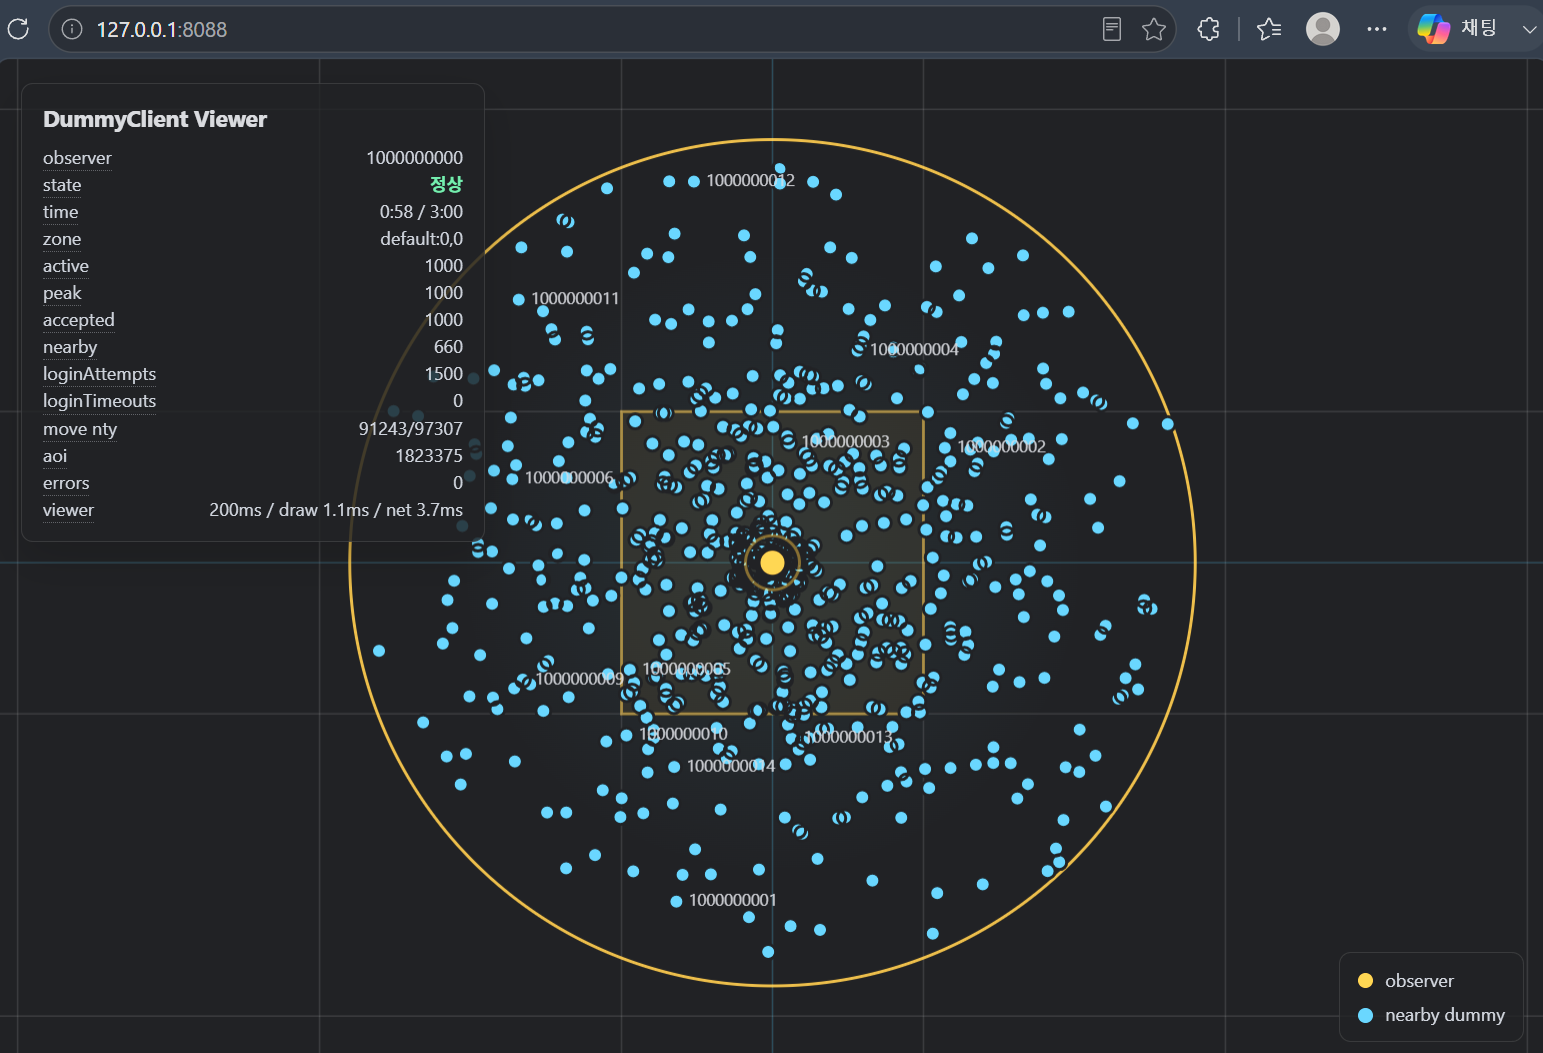
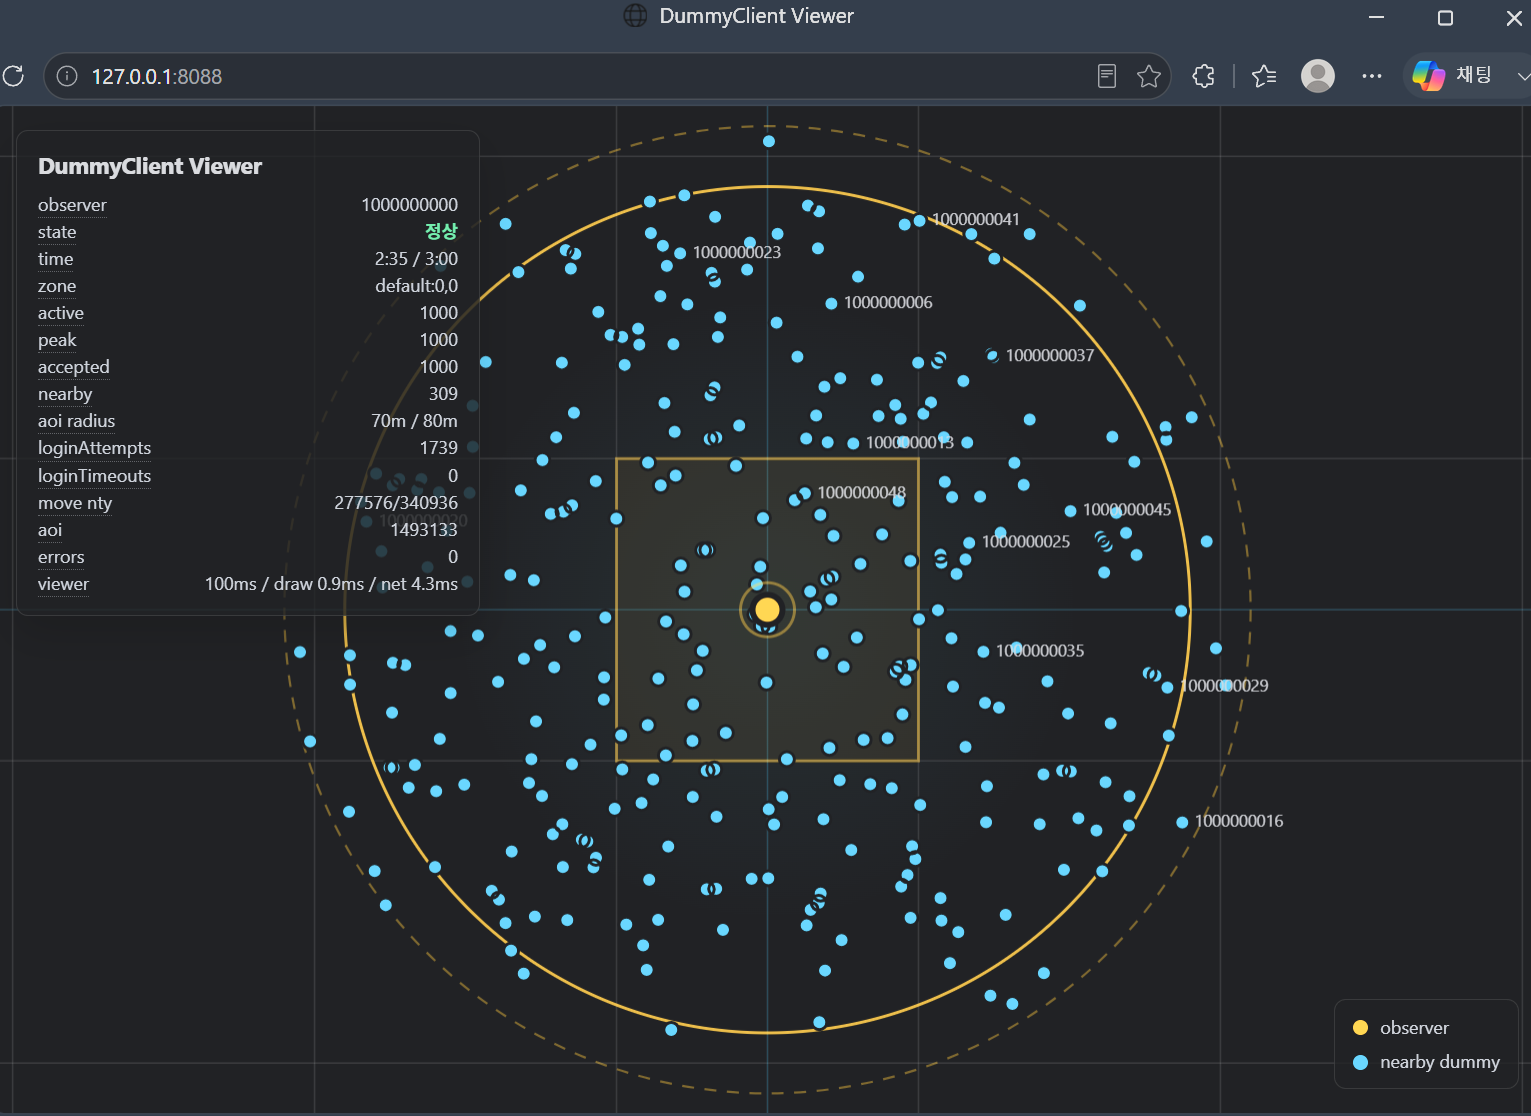
최적화를 위한 옵션 수치 조정

diff --git a/GameServer/Shared/Protocol/ProtobufPacketCodec.cs b/GameServer/Shared/Protocol/ProtobufPacketCodec.cs
@@ -1,3 +1,4 @@
+using System.Buffers;
 using System.Buffers.Binary;
 using Google.Protobuf;
 
@@ -10,18 +11,37 @@ public static class ProtobufPacketCodec
 
     public static async ValueTask WriteAsync(Stream stream, IMessage message, CancellationToken cancellationToken)
     {
-        var payload = message.ToByteArray();
+        var payloadLength = message.CalculateSize();
 
-        if (payload.Length > MaxPacketSize)
+        if (payloadLength > MaxPacketSize)
         {
             throw new InvalidOperationException($"Packet is larger than {MaxPacketSize} bytes.");
         }
 
-        Span<byte> header = stackalloc byte[HeaderSize];
-        BinaryPrimitives.WriteInt32BigEndian(header, payload.Length);
-        await stream.WriteAsync(header.ToArray(), cancellationToken);
-        await stream.WriteAsync(payload, cancellationToken);
-        await stream.FlushAsync(cancellationToken);
+        // 매번 byte[]를 만들지 않고 pool에서 빌려 GC 압박을 줄일 수 있음.
+        var header = ArrayPool<byte>.Shared.Rent(HeaderSize);
+        var payload = ArrayPool<byte>.Shared.Rent(payloadLength);
+        try
+        {
+            BinaryPrimitives.WriteInt32BigEndian(header.AsSpan(0, HeaderSize), payloadLength);
+
+            var output = new CodedOutputStream(payload);
+            message.WriteTo(output);
+            // ArrayPool은 요청보다 큰 배열을 줄 수 있으므로 실제 직렬화 길이만 검증
+            if (output.Position != payloadLength)
+            {
+                throw new InvalidOperationException(
+                    $"Packet serialization size mismatch. Expected {payloadLength}, wrote {output.Position}.");
+            }
+
+            await stream.WriteAsync(header.AsMemory(0, HeaderSize), cancellationToken);
+            await stream.WriteAsync(payload.AsMemory(0, payloadLength), cancellationToken);
+        }
+        finally
+        {
+            ArrayPool<byte>.Shared.Return(payload);
+            ArrayPool<byte>.Shared.Return(header);
+        }
     }
 
     public static async ValueTask<T?> ReadAsync<T>(
@@ -30,35 +50,50 @@ public static class ProtobufPacketCodec
         CancellationToken cancellationToken)
         where T : class, IMessage<T>
     {
-        var header = new byte[HeaderSize];
-        var headerRead = await ReadExactOrEndAsync(stream, header, cancellationToken);
-        if (!headerRead)
+        // 수신도 header/payload 배열을 재사용해서 대량 패킷 처리 시 할당을 줄임
+        var header = ArrayPool<byte>.Shared.Rent(HeaderSize);
+        try
         {
-            return default;
-        }
+            var headerRead = await ReadExactOrEndAsync(stream, header.AsMemory(0, HeaderSize), cancellationToken);
+            if (!headerRead)
+            {
+                return default;
+            }
 
-        var length = BinaryPrimitives.ReadInt32BigEndian(header);
-        if (length <= 0 || length > MaxPacketSize)
+            var length = BinaryPrimitives.ReadInt32BigEndian(header.AsSpan(0, HeaderSize));
+            if (length <= 0 || length > MaxPacketSize)
+            {
+                throw new InvalidDataException($"Invalid packet length: {length}.");
+            }
+
+            var payload = ArrayPool<byte>.Shared.Rent(length);
+            try
+            {
+                var payloadRead = await ReadExactOrEndAsync(stream, payload.AsMemory(0, length), cancellationToken);
+                if (!payloadRead)
+                {
+                    return default;
+                }
+
+                return parser.ParseFrom(payload, 0, length);
+            }
+            finally
+            {
+                ArrayPool<byte>.Shared.Return(payload);
+            }
+        }
+        finally
         {
-            throw new InvalidDataException($"Invalid packet length: {length}.");
+            ArrayPool<byte>.Shared.Return(header);
         }
-
-        var payload = new byte[length];
-        var payloadRead = await ReadExactOrEndAsync(stream, payload, cancellationToken);
-        if (!payloadRead)
-        {
-            return default;
-        }
-
-        return parser.ParseFrom(payload);
     }
 
-    private static async ValueTask<bool> ReadExactOrEndAsync(Stream stream, byte[] buffer, CancellationToken cancellationToken)
+    private static async ValueTask<bool> ReadExactOrEndAsync(Stream stream, Memory<byte> buffer, CancellationToken cancellationToken)
     {
         var offset = 0;
         while (offset < buffer.Length)
         {
-            var read = await stream.ReadAsync(buffer.AsMemory(offset, buffer.Length - offset), cancellationToken);
+            var read = await stream.ReadAsync(buffer[offset..], cancellationToken);
             if (read == 0)
             {
                 return false;

diff --git a/GameServer/DummyClient/DummyClientRunner.cs b/GameServer/DummyClient/DummyClientRunner.cs
@@ -114,6 +114,21 @@ internal static class DummyClientRunner
             var directionX = 0f;
             var directionY = 0f;
             var moveStopwatch = Stopwatch.StartNew();
+            var movePosition = new WorldPosition
+            {
+                MapId = options.MapId,
+                X = position.X,
+                Y = position.Y,
+                Z = position.Z
+            };
+            var moveEnvelope = new ClientReqEnvelope
+            {
+                Kind = ClientReqKind.Move,
+                Move = new MoveReq
+                {
+                    Position = movePosition
+                }
+            };
 
             while (!cancellationToken.IsCancellationRequested)
             {
@@ -138,23 +153,13 @@ internal static class DummyClientRunner
                 moveStopwatch.Restart();
                 var distance = MoveSpeedMetersPerSecond * elapsedSeconds;
 
-                position = new WorldPosition
-                {
-                    MapId = options.MapId,
-                    X = position.X + directionX * distance,
-                    Y = position.Y + directionY * distance,
-                    Z = 0
-                };
+                // DummyClient는 송신 완료 후 다음 tick에서만 갱신하므로 protobuf 객체를 재사용해도 안전함
+                movePosition.X += directionX * distance;
+                movePosition.Y += directionY * distance;
+                movePosition.Z = 0;
+                moveEnvelope.Sequence = sequence++;
 
-                await ProtobufPacketCodec.WriteAsync(stream, new ClientReqEnvelope
-                {
-                    Sequence = sequence++,
-                    Kind = ClientReqKind.Move,
-                    Move = new MoveReq
-                    {
-                        Position = position
-                    }
-                }, cancellationToken);
+                await ProtobufPacketCodec.WriteAsync(stream, moveEnvelope, cancellationToken);
 
                 stats.IncrementSentMoves();
             }

diff --git a/GameServer/GatewayServer/Networking/GatewayAoiAggregator.cs b/GameServer/GatewayServer/Networking/GatewayAoiAggregator.cs
@@ -27,13 +27,13 @@ public sealed class GatewayAoiAggregator : BackgroundService
             .ToArray();
     }
 
-    public Task EnqueueLatestZoneAsync(
+    internal Task EnqueueLatestZoneAsync(
         ServerResEnvelope envelope,
         IReadOnlyList<GatewaySession> sessions,
         CancellationToken cancellationToken = default)
         => EnqueueZoneBatchAsync(SessionAoiCommandKind.LatestBatch, envelope, sessions, cancellationToken);
 
-    public Task EnqueueReliableZoneAsync(
+    internal Task EnqueueReliableZoneAsync(
         ServerResEnvelope envelope,
         IReadOnlyList<GatewaySession> sessions,
         CancellationToken cancellationToken = default)
@@ -76,7 +76,13 @@ public sealed class GatewayAoiAggregator : BackgroundService
                 continue;
             }
 
-            var command = new SessionAoiCommand(kind, envelope, partitionSessions.ToArray(), "", null);
+            var command = new SessionAoiCommand(
+                kind,
+                envelope,
+                partitionSessions.ToArray(),
+                "",
+                null);
+
             await _partitions[i].EnqueueAsync(command, cancellationToken);
         }
     }
@@ -89,6 +95,7 @@ public sealed class GatewayAoiAggregator : BackgroundService
         private readonly GatewayTcpTraceLog _traceLog;
         private readonly GatewayOptions _options;
         private readonly ILogger _logger;
+        // 현재 가장 큰 AOI 병목 지점. Latest/Reliable/Flush 명령이 여기서 세션별 필터링 작업으로 fan-out됨.
         private readonly Channel<SessionAoiCommand> _commands;
         // 관찰자 세션별로 1 tick 1 AOI packet이 되도록 최신 delta를 병합한다.
         private readonly Dictionary<string, PendingAoiDelta> _pendingBySession = new(StringComparer.Ordinal);
@@ -807,6 +814,7 @@ public sealed class GatewayAoiAggregator : BackgroundService
                 Sequence = _sequence
             };
             delta.Upserts.AddRange(_upserts.Values.Select(x => x.Clone()));
+
             foreach (var remove in _removes)
             {
                 delta.Removes.Add(remove.Key);

diff --git a/GameServer/GatewayServer/Networking/GatewaySubscriptionManager.cs b/GameServer/GatewayServer/Networking/GatewaySubscriptionManager.cs
@@ -279,7 +279,10 @@ public sealed class GatewaySubscriptionManager : BackgroundService
                 AoiDelta = delta.ToPacketAoiDelta()
             };
 
-            await _aoiAggregator.EnqueueReliableZoneAsync(envelope, [session], cancellationToken);
+            await _aoiAggregator.EnqueueReliableZoneAsync(
+                envelope,
+                [session],
+                cancellationToken);
         }
         catch (OperationCanceledException) when (cancellationToken.IsCancellationRequested)
         {

diff --git a/GameServer/GatewayServer/Networking/GatewayZoneEventRouter.cs b/GameServer/GatewayServer/Networking/GatewayZoneEventRouter.cs
@@ -382,6 +382,7 @@ public sealed class GatewayZoneEventRouter : BackgroundService
                 Sequence = _sequence
             };
             delta.Upserts.AddRange(_upserts.Values.Select(x => x.Clone()));
+
             foreach (var remove in _removes)
             {
                 delta.Removes.Add(remove.Key);

diff --git a/README.md b/README.md
@@ -98,6 +98,11 @@ Gateway 내부의 user/zone 구독 ref count와 `zone -> session` 인덱스는 s
 
 Zone 이벤트는 `ServerDeliveryPolicy`에 따라 처리 경로가 나뉩니다. `Reliable` 이벤트는 누락 없이 전달하고, `LatestPerEntity` 이벤트는 Gateway의 Zone hash partition에서 최신값으로 병합한 뒤 session hash partition에서 관찰자와 객체 기준으로 다시 병합해 tick 단위로 전송합니다.
 
+현재 남아있는 가장 강한 병목은 `GatewayAoiAggregator`의 session AOI command queue입니다.
+
+이 단계에서 Zone AOI가 관찰자 세션별 필터링 작업으로 fan-out되기 때문에, 좁은 지역에 많은 유저가 몰리면 queue 지연이 가장 먼저 커집니다. 현재 로컬 기본값은 `SessionAoiPartitionCount=16`으로 두어 병렬성을 확보하지만, 
+후술할 1000명 테스트에서 단일 PC를 사용할 경우 순간적으로 큰 지연이 발생합니다. 따라서 프로덕션까지 가기 위해서 개선해야할 부분입니다.
+
 <br>
 
 ## 주요 설정 옵션
@@ -113,11 +118,11 @@ Zone 이벤트는 `ServerDeliveryPolicy`에 따라 처리 경로가 나뉩니다
 | `GatewayHeartbeatTTLSec` | 3 | 죽은 Gateway 판정 TTL |
 | `EventQueueCapacity` | 4096 | Redis EventBus 수신 큐 용량 |
 | `EventQueueWorkerCount` | 4 | Gateway 이벤트 큐 worker 수 |
-| `LatestEventTickMs` | 200 | latest-only 이벤트 병합 및 전송 기준 tick |
+| `LatestEventTickMs` | 100 | latest-only 이벤트 병합 및 전송 기준 tick |
 | `LatestEventQueueCapacity` | 4096 | Gateway가 보관할 latest-only Zone 버퍼 최대 수 |
 | `LatestEventPartitionCount` | 4 | latest-only Zone 이벤트 hash partition 수 |
 | `LatestEventProcessingBudgetMs` | 100 | Gateway 전체 latest-only Zone tick 처리 시간 예산. Zone partition 수로 나눠 적용 |
-| `SessionAoiPartitionCount` | 4 | 세션별 AOI 병합/전송 hash partition 수 |
+| `SessionAoiPartitionCount` | 16 | 세션별 AOI 병합/전송 hash partition 수 |
 | `SessionAoiTickMs` | 100 | 세션별 pending AOI 전송 tick |
 | `SessionAoiQueueCapacity` | 4096 | 세션 AOI partition별 입력 큐 용량 |
 | `SessionAoiSendConcurrency` | 32 | latest-only AOI 전송 동시 실행 제한 |